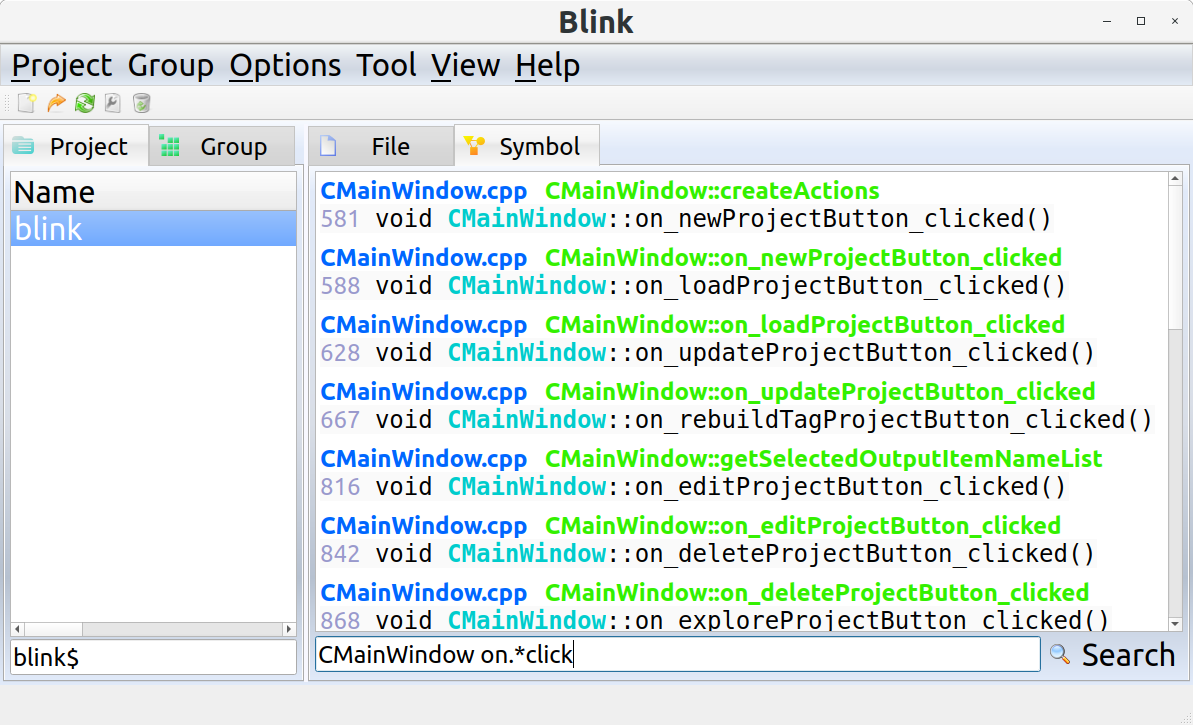
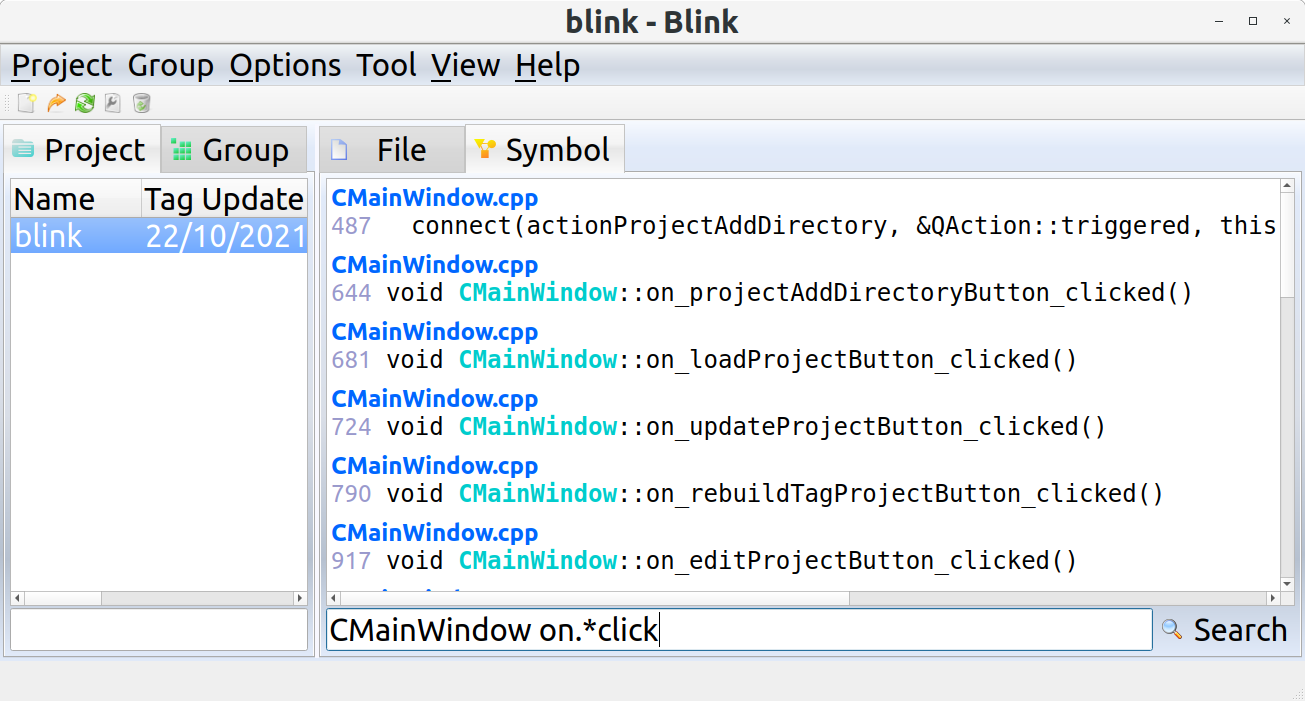
update readme and screenshots

Changed region(s): [[0.0, 0.0, 1.0, 0.9586], [0.0, 0.719, 0.031, 0.7489]]

diff --git a/README.md b/README.md
@@ -33,7 +33,7 @@ Windows and Linux binaries are available at
 ![Code search](https://raw.githubusercontent.com/ychclone/blink/master/Screenshot/blink_codesearch.png)
 
 # Replace in files
-![Replace in files](https://raw.githubusercontent.com/ychclone/blink/master/Screenshot/blink_replaceinfiles.png)
+![Replace in files](https://raw.githubusercontent.com/ychclone/blink/master/Screenshot/blink_replaceinfiles.png | width=680)
 
 # Usage
 
@@ -41,7 +41,7 @@ Windows and Linux binaries are available at
 project tab.
 ![Drop folder](https://raw.githubusercontent.com/ychclone/blink/master/Screenshot/usage_drop_folder.png)
 2. A new project dialog will appears. Type the file extensions that you want to index.
-![New project](https://raw.githubusercontent.com/ychclone/blink/master/Screenshot/usage_new_project.png) 
+![New project](https://raw.githubusercontent.com/ychclone/blink/master/Screenshot/usage_new_project.png | width=512) 
 3. Right click on the project name
 4. Click "Rebuild Symbol"
 5. Double click the project name to make it the active project.
